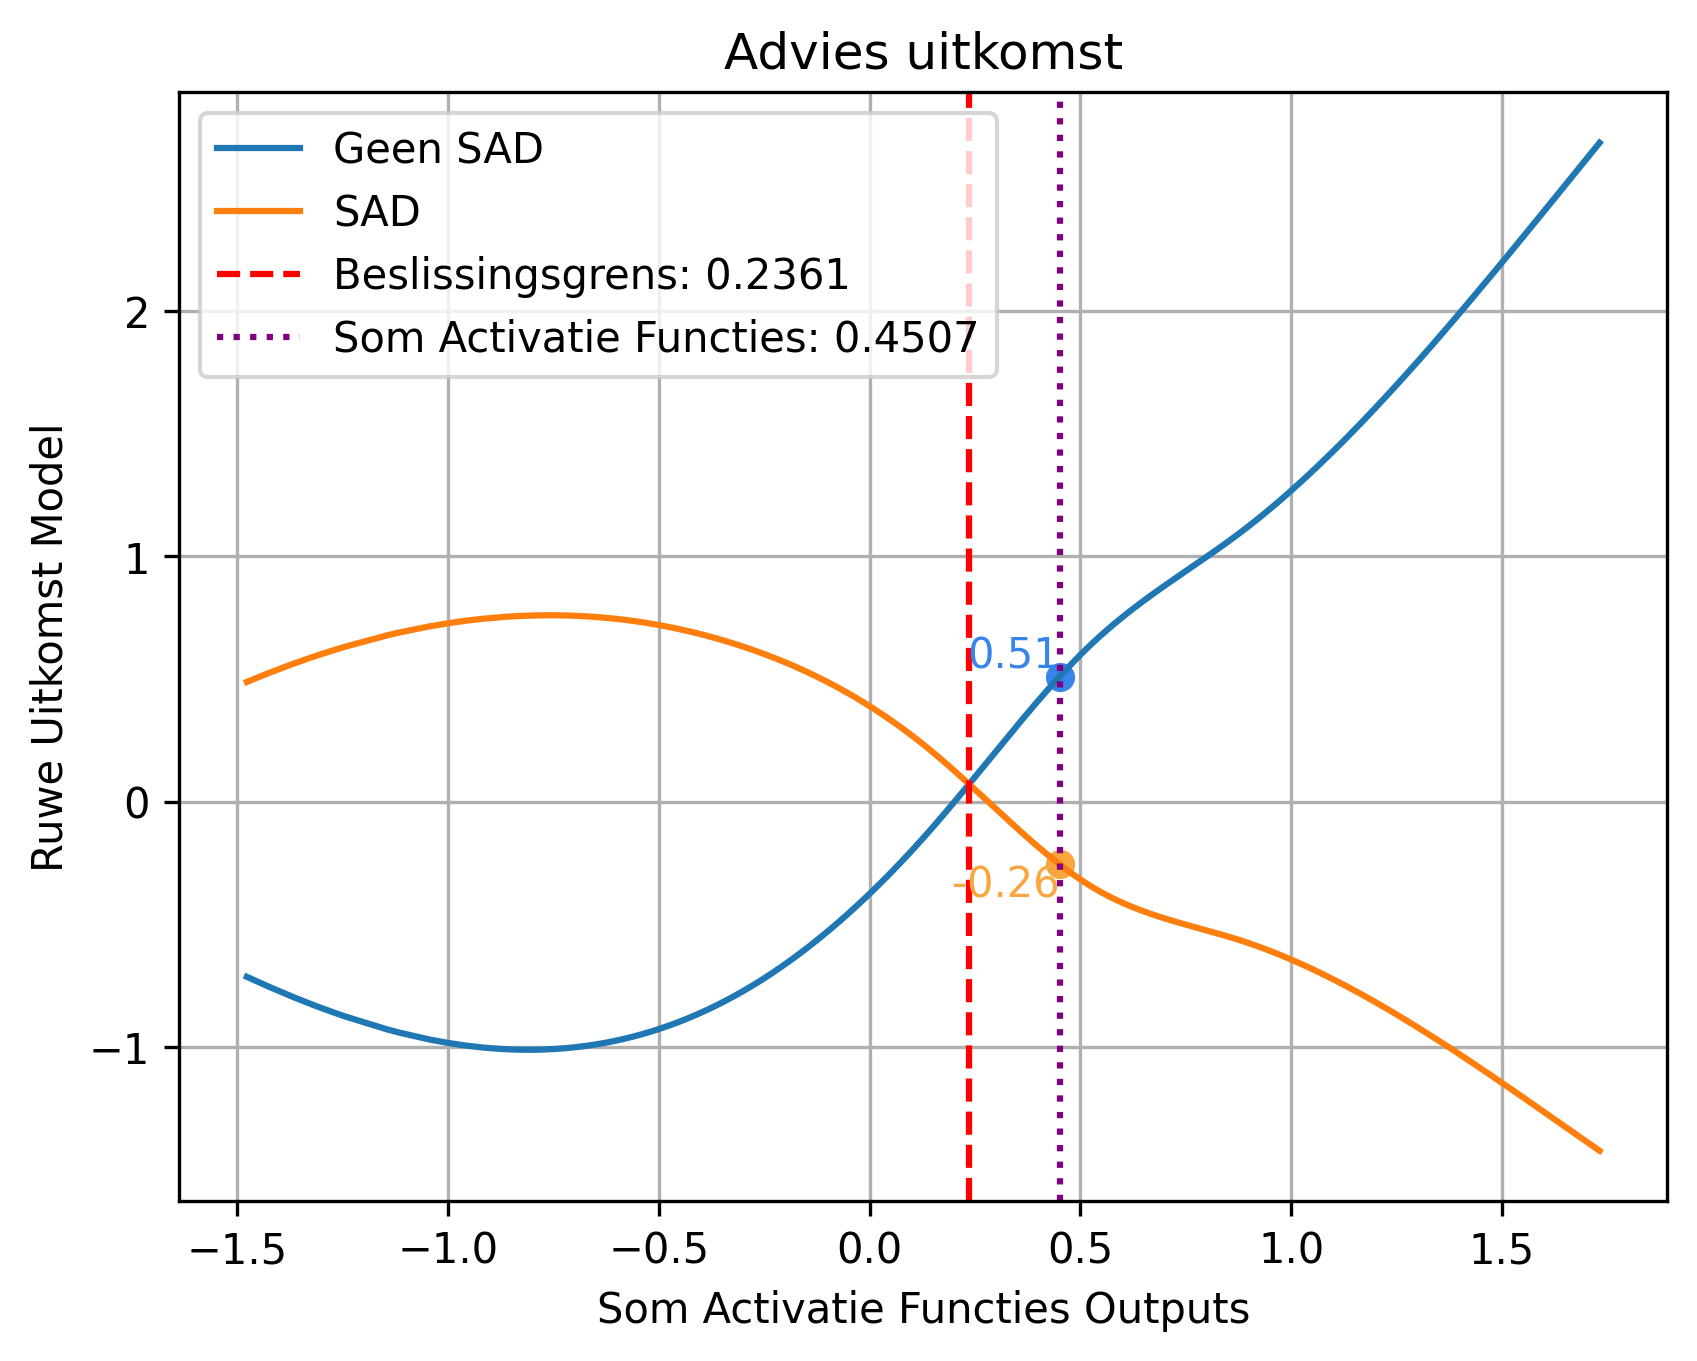
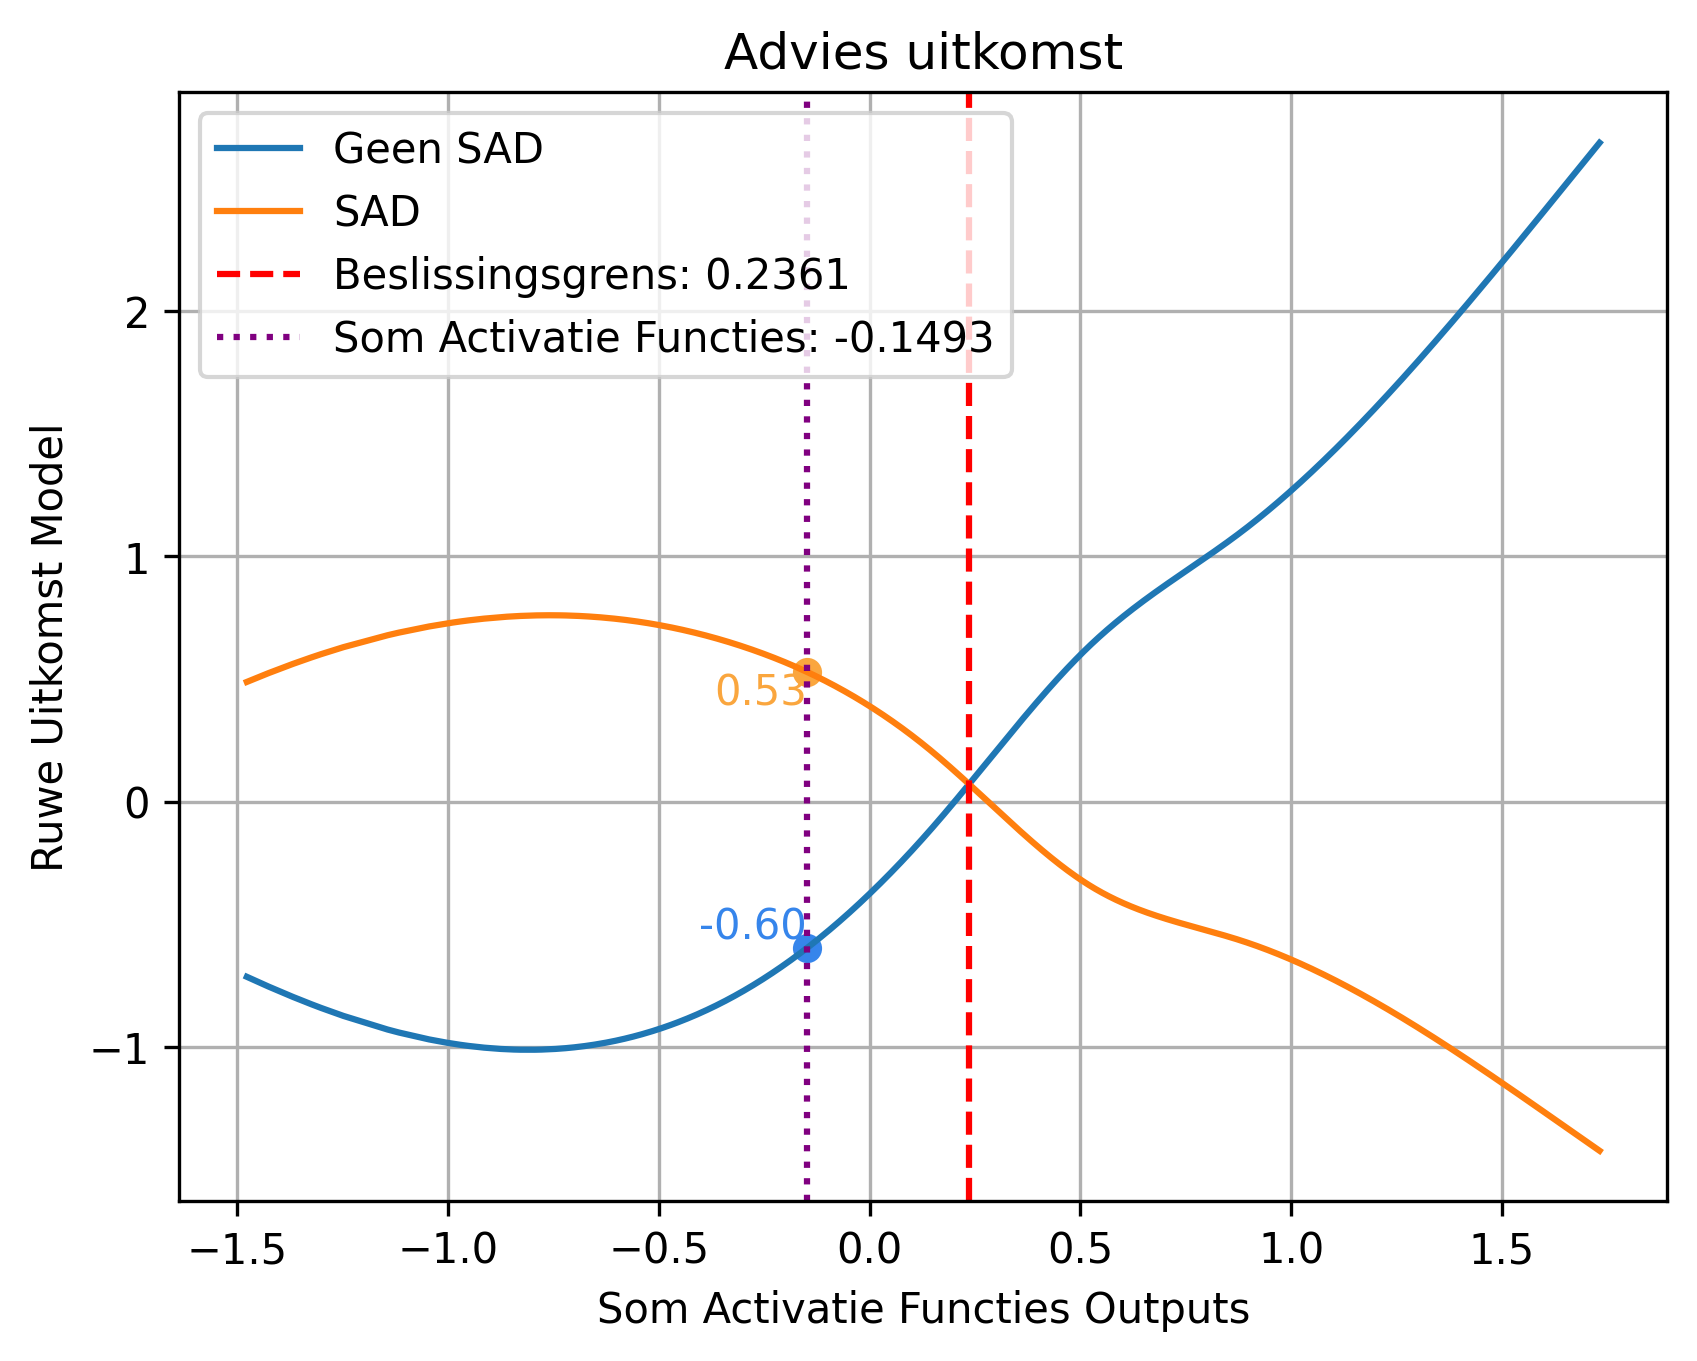
created new explanations

diff --git a/Streamlit_htbt.py b/Streamlit_htbt.py
@@ -1,0 +1,111 @@
+import streamlit as st
+import torch
+import pandas as pd
+import pickle
+import matplotlib.pyplot as plt
+import os
+from pykan.kan import KAN
+
+# Load model
+model = KAN(width=[53, 1, 2], grid=5, k=3, seed=42)
+checkpoint = torch.load('model_with_scores.pt')
+model.load_state_dict(checkpoint['model_state_dict'])
+model.feature_scores = checkpoint['feature_scores']
+model.spline_preacts = checkpoint['model_spline_preacts']
+model.spline_postacts = checkpoint['model_spline_postacts']
+model.eval()
+
+# ========== Load Feature Info ==========
+with open("models/feature_config.pkl", "rb") as f:
+    feature_config = pickle.load(f)
+
+feature_names = feature_config["continuous_labels"] + feature_config["binary_labels"] + feature_config["ordinal_labels"]
+
+# Filter features based on available spline image
+valid_features = []
+for idx, name in enumerate(feature_names):
+    img_path = f"static/cf_splines_htbt/layer0_input{idx}_to_output0.png"
+    if os.path.exists(img_path):
+        valid_features.append((idx, name))
+
+# Load data
+with open("models/original_df.pkl", "rb") as f:
+    original_df = pickle.load(f)
+
+# ========== Streamlit Config ==========
+st.set_page_config(layout="wide")
+st.title("🧠 Predict SAD from MIMIC-IV")
+st.markdown("This app predicts SAD and explains spline activations for a standard patient. (Prototype Version)")
+
+st.markdown('''
+<style>
+[data-testid="stMarkdownContainer"] ul{
+    list-style-position: inside;
+}
+</style>
+''', unsafe_allow_html=True)
+
+# ========== Local Explanation ==========
+st.markdown("---")
+
+st.subheader("📊 Local Feature Importance")
+
+# Define columns outside the expanders
+column1, column2 = st.columns([1.2, 1.2])
+
+# Column 1 content
+with column1:
+    with st.expander("ℹ **Belang van kenmerken voor individuele voorspelling**"):
+        st.write("Deze grafiek laat zien hoe verschillende patiëntkenmerken bijdragen aan de individuele voorspelling van het risico op sepsis-geassocieerde delier (SAD).")
+        st.markdown("- **Bovenste grafiek**: Toont de optelsom van alle bijdragen van kenmerken. De balk geeft de som van bijdragen die het risico op SAD verhogen en de rode stippellijn duidt de drempelwaarde aan tussen wel of geen SAD. In dit geval is de som **0.4507**, voorbij de drempelwaarde van **0.2361**, dus is het advies: *Geen SAD*")
+        st.markdown("- **Onderste grafiek**: Visualiseert de individuele bijdragen van kenmerken aan de voorspelling.")
+        st.markdown("- Oranje balken duiden op kenmerken die de kans op SAD **verhogen**.")
+        st.markdown("- Blauwe balken duiden op kenmerken die de kans op SAD **verlagen**.")
+        st.markdown("- De lengte van de balk geeft de mate van invloed aan; langere balken wijzen op een sterkere bijdrage aan de voorspelling.")
+
+    st.image("static/local_feature_importance_waterfall.png", use_container_width=True)
+
+# Column 2 content
+with column2:
+    with st.expander("ℹ **Effect van individuele variabele op het advies**"):
+        st.write("Deze grafieken tonen aan hoe de waarde van patiëntkenmerken (hier: Protrombinetijd) bijdragen aan het advies.")
+        st.markdown("- **X-as**: Waarden die het kenmerk kan aannemen.")
+        st.markdown("- **Y-as**: De bijdrage (‘activatie output’) van elke waarde aan het uiteindelijke advies.")
+        st.markdown("- De rode stippellijn markeert de waarde voor de huidige patiënt.")
+        st.markdown("- Het bijbehorende punt toont hoe sterk deze specifieke waarde het advies beïnvloedt (positief of negatief).")
+        st.markdown("- **Blauwe punten** geven waarden die het risico op SAD **verlagen**.")
+        st.markdown("- **Oranje punten** geven waarden die het risico op SAD **verhogen**.")
+
+    # Dropdown with only valid features
+    selected_idx, selected_label = st.selectbox(
+        "Selecteer een kenmerk om te zien in hoeverre het kan veranderen zonder dat het advies verandert",
+        valid_features,
+        format_func=lambda x: x[1]
+    )
+
+    # Show corresponding spline image
+    img_path = f"static/cf_splines/layer0_input{selected_idx}_to_output0.png"
+    st.image(img_path, use_container_width=True)
+
+    with st.expander("ℹ **Uitleg van het eindadvies van het model**"):
+        st.write("Deze grafiek laat zien hoe het model tot een eindadvies komt op basis van de som van alle activatiefunctie-uitkomsten.")
+        st.markdown("- **X-as**: De som van bijdragen van alle patiëntkenmerken na verwerking door het model.")
+        st.markdown("- **Y-as**: De ruwe modeluitkomst voor beide mogelijke adviezen (SAD of Geen SAD).")
+        st.markdown("- De **blauwe lijn** toont de kanscurve voor het advies *Geen SAD*.")
+        st.markdown("- De **oranje lijn** toont de kanscurve voor het advies *SAD*.")
+        st.markdown("- De **paarse stippellijn** markeert de inputwaarde van deze specifieke patiënt.")
+        st.markdown("- De **rode stippellijn** toont de beslissingsgrens: ligt de paarse lijn rechts hiervan, dan is het advies *Geen SAD*; links is het advies *SAD*.")
+        st.markdown("- De gemarkeerde waarden op de lijnen geven de ruwe modeloutput bij de inputwaarde.")
+
+    st.markdown("#### Counterfactual Uitleg per Kenmerk")
+    st.markdown("""
+    - De huidige temperatuur is 37.06 °C. Als de temperatuur lager wordt dan 33.85 °C, dan verandert het advies naar SAD.
+    - De huidige glucosewaarde is 119.00 mg/dL. Als de glucosewaarde hoger wordt dan 624.40 mg/dL, dan verandert het advies naar SAD.
+    - Het huidige natriumgehalte is 139.00 mEq/L. Als het natriumgehalte hoger wordt dan 145.70 mEq/L, dan verandert het advies naar SAD.
+    - De huidige INR is 1.00. Als de INR hoger wordt dan 1.19, dan verandert het advies naar SAD.
+    - De patiënt krijgt momenteel geen mechanische ventilatie. Als dit wel zo zou zijn zou het advies veranderen naar SAD.
+    - De patiënt heeft geen beroerte gehad. Als dit wel zo zou zijn zou het advies veranderen naar SAD.
+    - De patiënt is momenteel niet opgenomen op de NICU. Als dit wel zo zou zijn zou het advies veranderen naar SAD.
+    - De huidige GCS-score is 15.00. Als de GCS tussen 5.14 en 13.90 zou liggen, dan verandert het advies naar SAD.
+    - De huidige SOFA-score is 3.00. Als de SOFA-score hoger wordt dan 10.06, dan verandert het advies naar SAD.
+        """)
